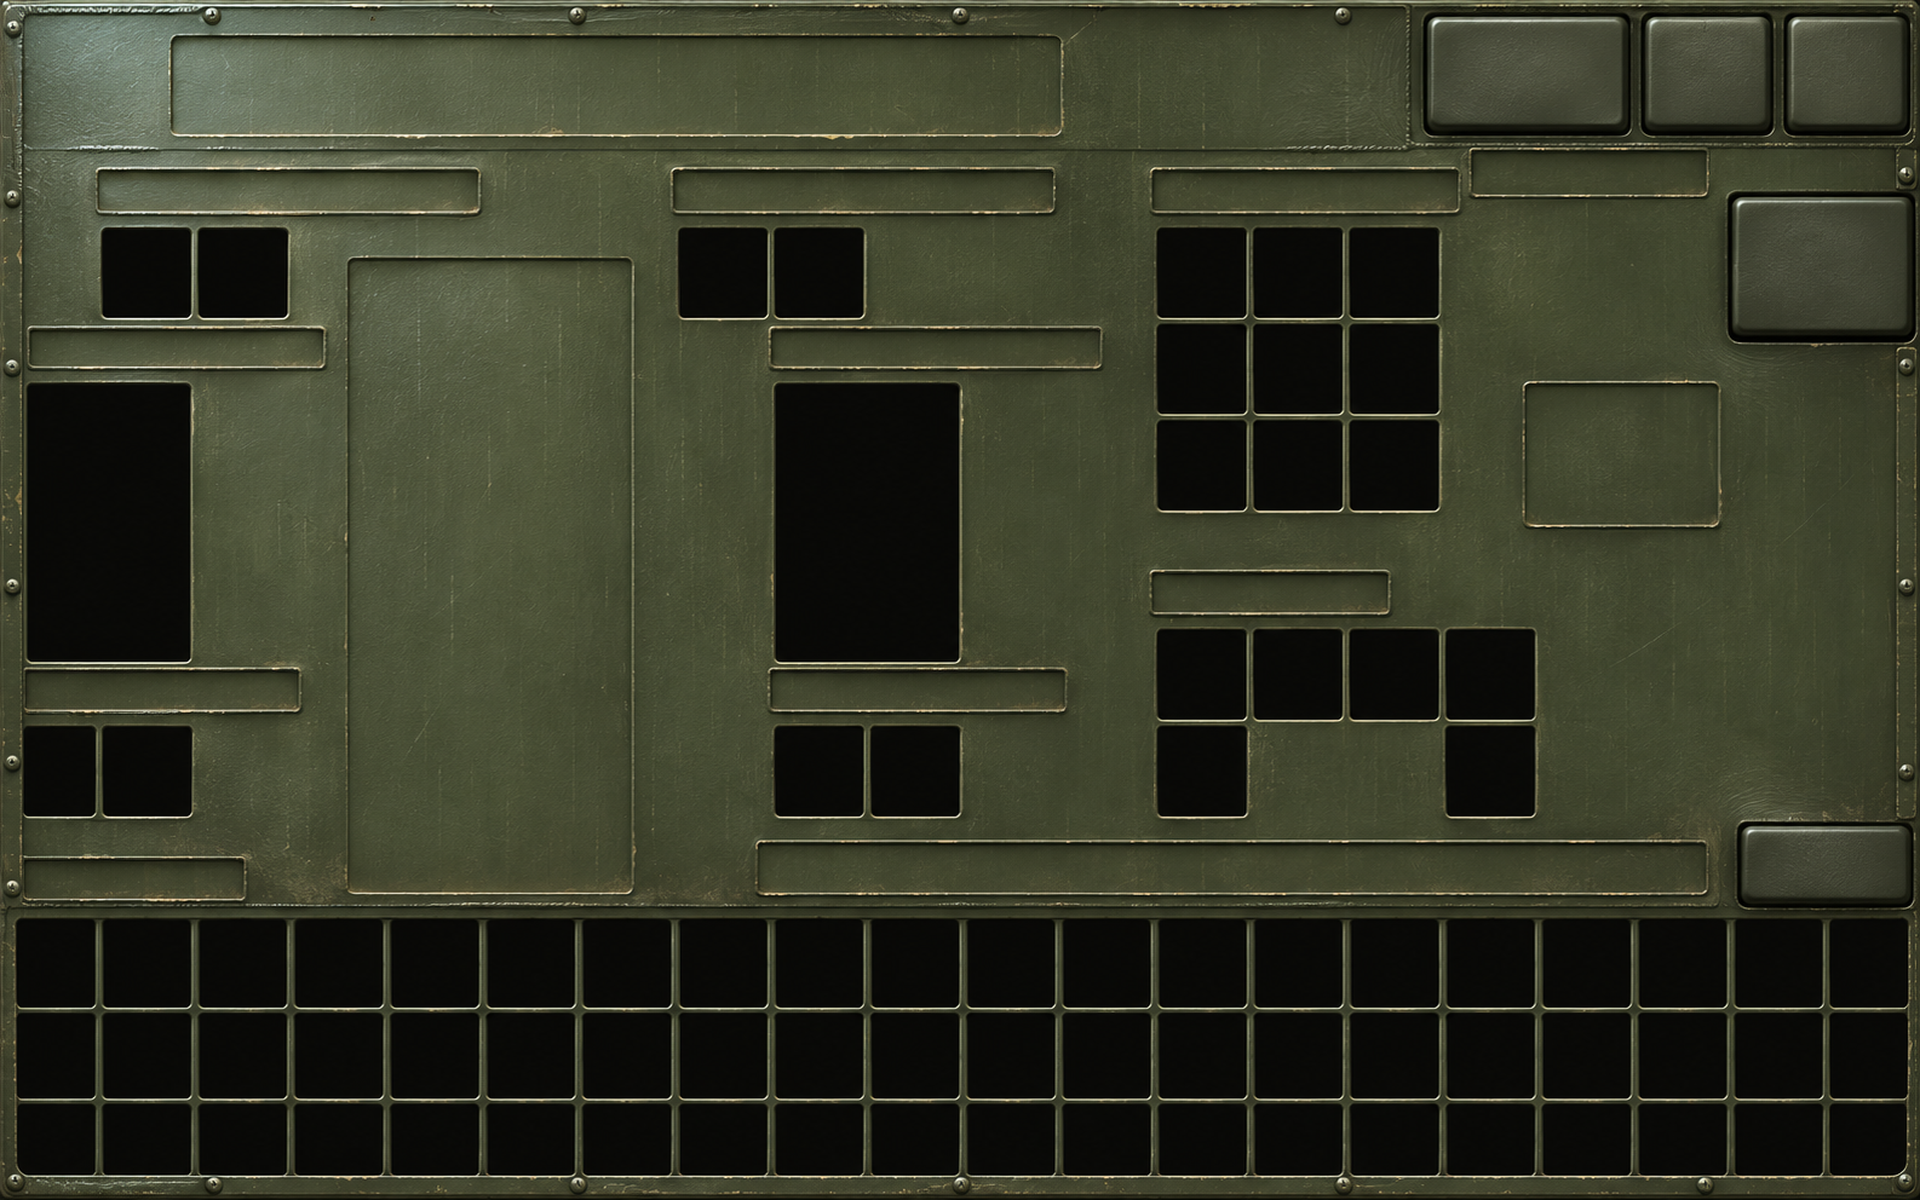
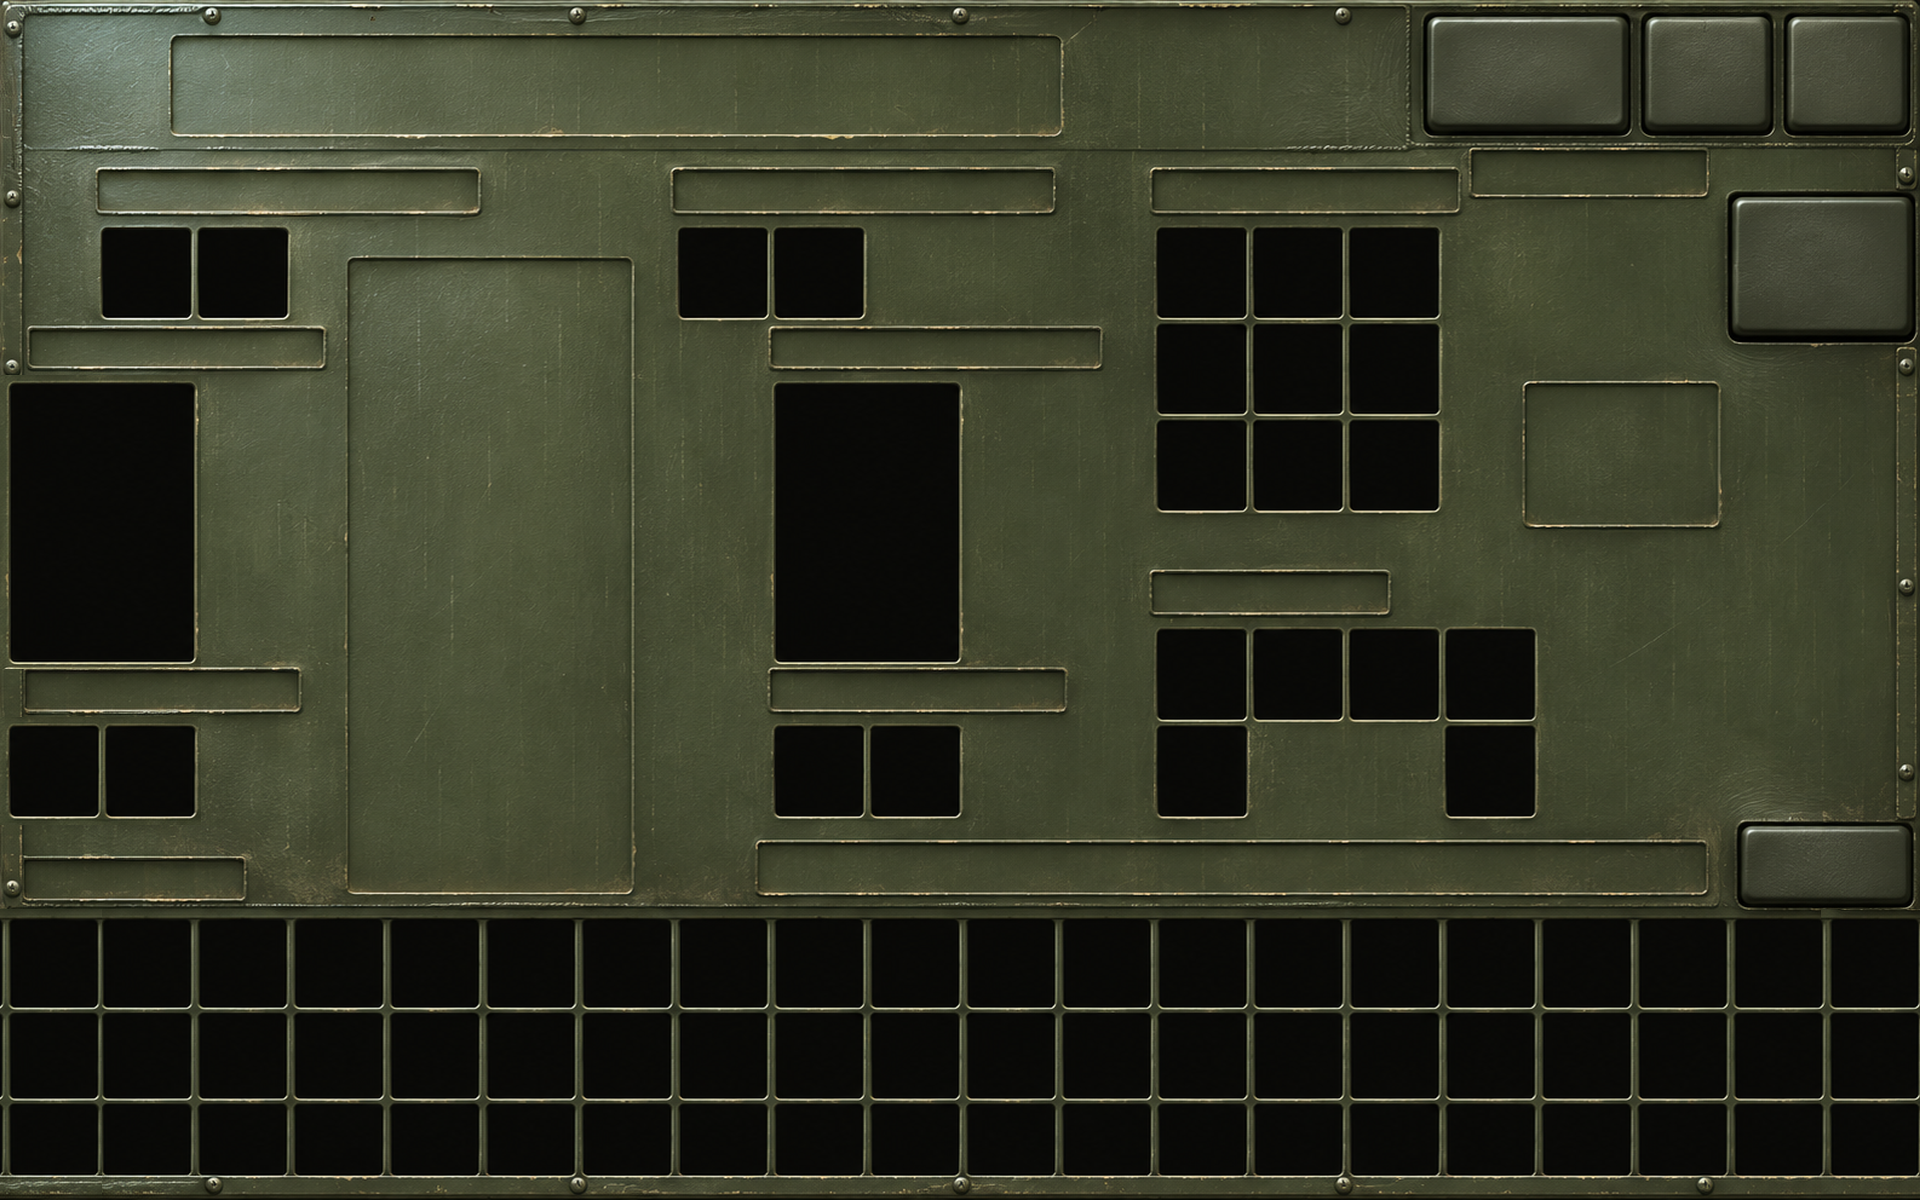
Equipment page: misfit edge compartments replaced from the painting's own twins
Right hand, right leg and the ground tray's end columns were inset by the
painter's frame; each is now a pixel copy of a correctly painted twin from the
same painting, placed on the slot the game uses. Measured: all on their slots.

Claude-Session: https://claude.ai/code/session_014dExcDxPaqvFqz4pbppVVZ

diff --git a/tools/oxce-4x/build/fit_inventory_art.py b/tools/oxce-4x/build/fit_inventory_art.py
@@ -1,0 +1,49 @@
+#!/usr/bin/env python3
+"""Make a painted equipment page fit the game exactly, using its own pixels.
+
+    python3 build/fit_inventory_art.py <installed TAC01_hi.png> <out.png>
+
+The first painting (Nov 11) came back right everywhere except the edges: the
+painter ran a riveted frame round the page and moved the compartments that
+touch it inwards - the right hand 4 base px narrower, the right leg and the
+ground tray's first and last columns cut by the border. The game's slots stay
+where they are, so anything put there sat half on the frame.
+
+Nothing is warped. Each misfit compartment is replaced by a correctly painted
+twin from the SAME painting - the left hand for the right, the left leg for the
+right leg, the ground tray's neighbouring column for its end columns - copied
+pixel for pixel onto the slot the game really uses. Measured afterwards with
+the same detector the check uses.
+"""
+import sys
+from PIL import Image
+
+K = 6
+
+
+def box(x0, y0, x1, y1):
+    return tuple(int(round(v * K)) for v in (x0, y0, x1, y1))
+
+
+# (source rect, destination x, destination y) in base px; rects include the rim
+MOVES = [
+    ((127.5, 62.5, 161.0, 111.5), 0.0, 62.5),     # left hand  -> right hand
+    ((127.5, 119.5, 161.0, 137.5), 0.0, 119.5),   # left leg   -> right leg
+    ((15.5, 151.5, 32.5, 200.0), 0.0, 151.5),     # ground col 1 -> col 0
+    ((287.5, 151.5, 304.5, 200.0), 303.5, 151.5), # ground col 18 -> col 19
+]
+
+
+def main(src, out):
+    im = Image.open(src).convert('RGBA')
+    for (x0, y0, x1, y1), dx, dy in MOVES:
+        piece = im.crop(box(x0, y0, x1, y1))
+        im.paste(piece, (int(round(dx * K)), int(round(dy * K))))
+    im.save(out)
+    print('wrote', out)
+
+
+if __name__ == '__main__':
+    if len(sys.argv) < 3:
+        sys.exit(__doc__)
+    main(sys.argv[1], sys.argv[2])
